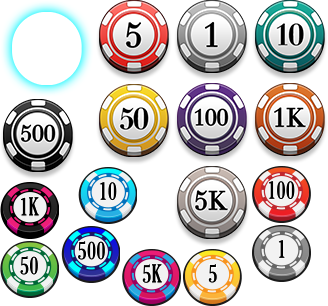
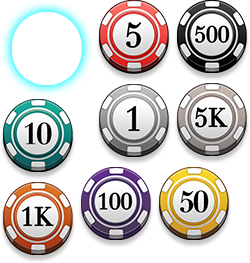
refaoctry

diff --git a/PocketDungen/bin/ui/layaUI.max.all.js b/PocketDungen/bin/ui/layaUI.max.all.js
@@ -24,6 +24,11 @@ var BetBtnSetUI=(function(_super){
 var betzoneUI=(function(_super){
 		function betzoneUI(){
 			
+		    this.zoneEffect_0=null;
+		    this.zoneEffect_1=null;
+		    this.zoneEffect_2=null;
+		    this.zoneEffect_3=null;
+		    this.zoneEffect_4=null;
 		    this.betzone_0=null;
 		    this.betzone_1=null;
 		    this.betzone_2=null;
@@ -40,10 +45,7 @@ var betzoneUI=(function(_super){
 			laya.ui.Component.prototype.createChildren.call(this);
 			this.createView(betzoneUI.uiView);
 		}
-
-		STATICATTR$(betzoneUI,
-		['uiView',function(){return this.uiView={"type":"View","props":{"width":750,"height":720},"child":[{"type":"Sprite","props":{"y":380,"x":437,"width":275,"var":"betzone_0","height":190}},{"type":"Sprite","props":{"y":380,"x":109,"width":219,"var":"betzone_1","height":190}},{"type":"Sprite","props":{"y":241,"x":294,"width":171,"var":"betzone_2","height":150}},{"type":"Sprite","props":{"y":211,"x":549,"width":150,"var":"betzone_3","height":141}},{"type":"Sprite","props":{"y":203,"x":55,"width":150,"var":"betzone_4","height":141}}]};}
-		]);
+		betzoneUI.uiView={"type":"View","props":{"width":750,"height":720},"child":[{"type":"Image","props":{"y":0,"x":0,"skin":"res/baccarat/bg-02.png"}},{"type":"Image","props":{"y":317,"x":380,"var":"zoneEffect_0","skin":"res/baccarat/t02.png"}},{"type":"Image","props":{"y":317,"x":26,"var":"zoneEffect_1","skin":"res/baccarat/t01.png"}},{"type":"Image","props":{"y":226,"x":231,"var":"zoneEffect_2","skin":"res/baccarat/t04.png"}},{"type":"Image","props":{"y":160,"x":493,"var":"zoneEffect_3","skin":"res/baccarat/t05.png"}},{"type":"Image","props":{"y":155,"x":23,"var":"zoneEffect_4","skin":"res/baccarat/t03.png"}},{"type":"Sprite","props":{"y":406,"x":386,"width":351,"var":"betzone_0","skewY":-10,"height":168}},{"type":"Sprite","props":{"y":343,"x":29,"width":361,"var":"betzone_1","skewY":10,"height":167}},{"type":"Sprite","props":{"y":240,"x":257,"width":238,"var":"betzone_2","height":143}},{"type":"Sprite","props":{"y":232,"x":497,"width":205,"var":"betzone_3","skewY":-15,"skewX":12,"height":146}},{"type":"Sprite","props":{"y":178,"x":55,"width":204,"var":"betzone_4","skewY":15,"skewX":-10,"height":144}}]};
 		return betzoneUI;
 	})(View);
 var coinSelectUI=(function(_super){

diff --git a/PocketDungen/src/ui/layaUI.max.all.js b/PocketDungen/src/ui/layaUI.max.all.js
@@ -24,6 +24,11 @@ var BetBtnSetUI=(function(_super){
 var betzoneUI=(function(_super){
 		function betzoneUI(){
 			
+		    this.zoneEffect_0=null;
+		    this.zoneEffect_1=null;
+		    this.zoneEffect_2=null;
+		    this.zoneEffect_3=null;
+		    this.zoneEffect_4=null;
 		    this.betzone_0=null;
 		    this.betzone_1=null;
 		    this.betzone_2=null;
@@ -40,10 +45,7 @@ var betzoneUI=(function(_super){
 			laya.ui.Component.prototype.createChildren.call(this);
 			this.createView(betzoneUI.uiView);
 		}
-
-		STATICATTR$(betzoneUI,
-		['uiView',function(){return this.uiView={"type":"View","props":{"width":750,"height":720},"child":[{"type":"Sprite","props":{"y":380,"x":437,"width":275,"var":"betzone_0","height":190}},{"type":"Sprite","props":{"y":380,"x":109,"width":219,"var":"betzone_1","height":190}},{"type":"Sprite","props":{"y":241,"x":294,"width":171,"var":"betzone_2","height":150}},{"type":"Sprite","props":{"y":211,"x":549,"width":150,"var":"betzone_3","height":141}},{"type":"Sprite","props":{"y":203,"x":55,"width":150,"var":"betzone_4","height":141}}]};}
-		]);
+		betzoneUI.uiView={"type":"View","props":{"width":750,"height":720},"child":[{"type":"Image","props":{"y":0,"x":0,"skin":"res/baccarat/bg-02.png"}},{"type":"Image","props":{"y":317,"x":380,"var":"zoneEffect_0","skin":"res/baccarat/t02.png"}},{"type":"Image","props":{"y":317,"x":26,"var":"zoneEffect_1","skin":"res/baccarat/t01.png"}},{"type":"Image","props":{"y":226,"x":231,"var":"zoneEffect_2","skin":"res/baccarat/t04.png"}},{"type":"Image","props":{"y":160,"x":493,"var":"zoneEffect_3","skin":"res/baccarat/t05.png"}},{"type":"Image","props":{"y":155,"x":23,"var":"zoneEffect_4","skin":"res/baccarat/t03.png"}},{"type":"Sprite","props":{"y":406,"x":386,"width":351,"var":"betzone_0","skewY":-10,"height":168}},{"type":"Sprite","props":{"y":343,"x":29,"width":361,"var":"betzone_1","skewY":10,"height":167}},{"type":"Sprite","props":{"y":240,"x":257,"width":238,"var":"betzone_2","height":143}},{"type":"Sprite","props":{"y":232,"x":497,"width":205,"var":"betzone_3","skewY":-15,"skewX":12,"height":146}},{"type":"Sprite","props":{"y":178,"x":55,"width":204,"var":"betzone_4","skewY":15,"skewX":-10,"height":144}}]};
 		return betzoneUI;
 	})(View);
 var coinSelectUI=(function(_super){

diff --git a/PocketDungen/bin/component/BetZone.js b/PocketDungen/bin/component/BetZone.js
@@ -13,6 +13,7 @@ function BetZone()
 	_model.betCancel.add(oncancelbet);	
 	_model.betok.add(onbetok);
 	_model.betTimeout.add(onstopbet);
+	_model.settleInfo.add(onsettleInfo);	
 	
 	(function()
 	{
@@ -23,12 +24,15 @@ function BetZone()
 		{
 			self._coinarr.push([])
 			self._unfirm_coin.push([])
+			self["zoneEffect_"+i].visible = false
 		}
 		
 		_model.pushValue("comfirm_betlist",self._coinarr)
 		_model.pushValue("unfirm_coin",self._unfirm_coin)
 
 		self.visible = false;
+
+		
 	})();
 
 	function onState(state)
@@ -55,6 +59,7 @@ function BetZone()
 		{
 			self.visible = false;
 			roundClear()
+			zone_reset()
 		}
 			
 	}
@@ -70,10 +75,31 @@ function BetZone()
 
 	function onbetzone(idx)
 	{		
+		self["zoneEffect_"+idx].visible = true
+
 		coin_add(idx,_model.getValue("select_coin_idx"))
 		_model.betBtnApear.dispatch(true);
 
 		_model.playerSound("res/sound/coinPlace.mp3")
+		_tween.to(self,{},100,Laya.Ease.linearNone,new Handler(this,zone_reset) )
+	}
+
+	function zone_reset()
+	{		
+		for(i =0;i< self._betzone.length;i++)
+		{
+			self["zoneEffect_"+i].visible = false
+		}
+	}
+	
+	function onsettleInfo(winstate,settlePoint,p)
+	{        
+       var paytable =_model.getValue("sttlepaytable")
+
+		for(i =0;i< self._betzone.length;i++)
+		{
+			if( paytable[i] !=0 ) self["zoneEffect_"+i].visible = true
+		}
 	}
 
 	function coin_add(zone_idx,select_coin_idx)
@@ -81,9 +107,11 @@ function BetZone()
 		var res = _model.getValue("selectRes")[select_coin_idx]
 		
 		var t = Laya.loader.getRes(res);
-		var coin = new Sprite
+		var coin = new Sprite		
 		coin.name = _model.getValue("coinValue")[select_coin_idx]
 		coin.graphics.drawTexture(t, 0, 0);
+		coin.scaleX = 0.5
+		coin.scaleY = 0.5
 		self["betzone_"+zone_idx].addChild(coin);
 		var width = self["betzone_"+zone_idx].width
 		var heigh = self["betzone_"+zone_idx].height

diff --git a/PocketDungen/src/component/BetZone.js b/PocketDungen/src/component/BetZone.js
@@ -13,6 +13,7 @@ function BetZone()
 	_model.betCancel.add(oncancelbet);	
 	_model.betok.add(onbetok);
 	_model.betTimeout.add(onstopbet);
+	_model.settleInfo.add(onsettleInfo);	
 	
 	(function()
 	{
@@ -23,12 +24,15 @@ function BetZone()
 		{
 			self._coinarr.push([])
 			self._unfirm_coin.push([])
+			self["zoneEffect_"+i].visible = false
 		}
 		
 		_model.pushValue("comfirm_betlist",self._coinarr)
 		_model.pushValue("unfirm_coin",self._unfirm_coin)
 
 		self.visible = false;
+
+		
 	})();
 
 	function onState(state)
@@ -55,6 +59,7 @@ function BetZone()
 		{
 			self.visible = false;
 			roundClear()
+			zone_reset()
 		}
 			
 	}
@@ -70,10 +75,31 @@ function BetZone()
 
 	function onbetzone(idx)
 	{		
+		self["zoneEffect_"+idx].visible = true
+
 		coin_add(idx,_model.getValue("select_coin_idx"))
 		_model.betBtnApear.dispatch(true);
 
 		_model.playerSound("res/sound/coinPlace.mp3")
+		_tween.to(self,{},100,Laya.Ease.linearNone,new Handler(this,zone_reset) )
+	}
+
+	function zone_reset()
+	{		
+		for(i =0;i< self._betzone.length;i++)
+		{
+			self["zoneEffect_"+i].visible = false
+		}
+	}
+	
+	function onsettleInfo(winstate,settlePoint,p)
+	{        
+       var paytable =_model.getValue("sttlepaytable")
+
+		for(i =0;i< self._betzone.length;i++)
+		{
+			if( paytable[i] !=0 ) self["zoneEffect_"+i].visible = true
+		}
 	}
 
 	function coin_add(zone_idx,select_coin_idx)
@@ -81,9 +107,11 @@ function BetZone()
 		var res = _model.getValue("selectRes")[select_coin_idx]
 		
 		var t = Laya.loader.getRes(res);
-		var coin = new Sprite
+		var coin = new Sprite		
 		coin.name = _model.getValue("coinValue")[select_coin_idx]
 		coin.graphics.drawTexture(t, 0, 0);
+		coin.scaleX = 0.5
+		coin.scaleY = 0.5
 		self["betzone_"+zone_idx].addChild(coin);
 		var width = self["betzone_"+zone_idx].width
 		var heigh = self["betzone_"+zone_idx].height

diff --git a/PocketDungen/bin/component/CoinSelect.js b/PocketDungen/bin/component/CoinSelect.js
@@ -28,7 +28,7 @@ function CoinSelect()
 		self.coin_light.visible = false
 		_model.pushValue("select_coin_idx",0)
 
-		self._coinRes = ["res/Coin/coin_10_s.png","res/Coin/coin_50_s.png","res/Coin/coin_100_s.png","res/Coin/coin_500_s.png","res/Coin/coin_1k_s.png","res/Coin/coin_5k_s.png"]		
+		self._coinRes = ["res/Coin/coin_10.png","res/Coin/coin_50.png","res/Coin/coin_100.png","res/Coin/coin_500.png","res/Coin/coin_1k.png","res/Coin/coin_5k.png"]		
 		_model.pushValue("selectRes",self._coinRes)
 
 		self._coinValue = [10,50,100,500,1000,5000]		

diff --git a/PocketDungen/src/component/CoinSelect.js b/PocketDungen/src/component/CoinSelect.js
@@ -28,7 +28,7 @@ function CoinSelect()
 		self.coin_light.visible = false
 		_model.pushValue("select_coin_idx",0)
 
-		self._coinRes = ["res/Coin/coin_10_s.png","res/Coin/coin_50_s.png","res/Coin/coin_100_s.png","res/Coin/coin_500_s.png","res/Coin/coin_1k_s.png","res/Coin/coin_5k_s.png"]		
+		self._coinRes = ["res/Coin/coin_10.png","res/Coin/coin_50.png","res/Coin/coin_100.png","res/Coin/coin_500.png","res/Coin/coin_1k.png","res/Coin/coin_5k.png"]		
 		_model.pushValue("selectRes",self._coinRes)
 
 		self._coinValue = [10,50,100,500,1000,5000]		

diff --git a/PocketDungen/bin/model.js b/PocketDungen/bin/model.js
@@ -240,6 +240,11 @@ model.prototype.eventHandle = function (name,data)
             
         break;
         case "settle":
+
+            _model.pushValue("sttleState",jsondata.winstate)
+            _model.pushValue("sttlepoint",jsondata.settlePoint)
+            _model.pushValue("sttlepaytable",jsondata.settle)
+
             _model.gameStateUpdate.dispatch(name);
             _model.settleInfo.dispatch(jsondata.winstate,jsondata.settlePoint, jsondata.settle)
             

diff --git a/PocketDungen/src/model.js b/PocketDungen/src/model.js
@@ -240,6 +240,11 @@ model.prototype.eventHandle = function (name,data)
             
         break;
         case "settle":
+
+            _model.pushValue("sttleState",jsondata.winstate)
+            _model.pushValue("sttlepoint",jsondata.settlePoint)
+            _model.pushValue("sttlepaytable",jsondata.settle)
+
             _model.gameStateUpdate.dispatch(name);
             _model.settleInfo.dispatch(jsondata.winstate,jsondata.settlePoint, jsondata.settle)
             
